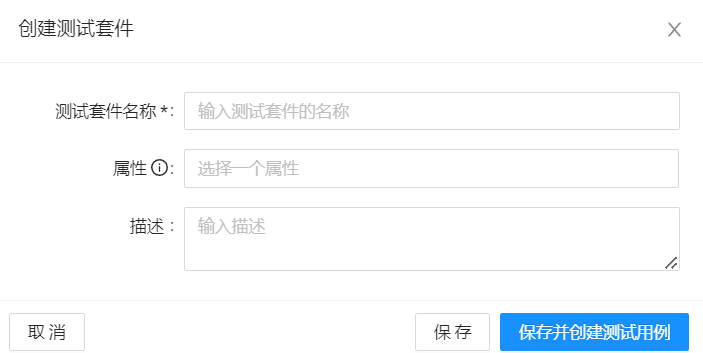
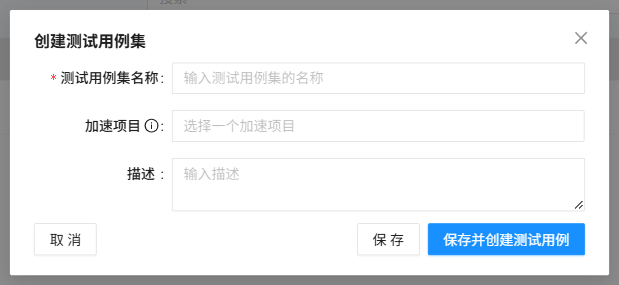
NGDOC-397 Translate Test Suites page; replace test suite screenshots; stop ignoring PNG files

diff --git a/zh/docs/portal/edge-configurations/working-with-test-suites.md b/zh/docs/portal/edge-configurations/working-with-test-suites.md
@@ -1,79 +1,79 @@
-# Working with Test Suites
+# 管理测试用例集
 
-CDN Pro provides a staging environment for you to [test your property configurations](</docs/portal/edge-configurations/testing-property.md>) without affecting production. Test suites provide the added convenience of allowing you to test properties deployed to both the staging and production environments.
+CDN Pro 提供了演练环境，供您在不影响生产环境的情况下[测试加速项目配置](</docs/portal/edge-configurations/testing-property.md>)。您可以使用测试用例集的功能，方便地测试部署到演练环境和生产环境的加速项目。
 
-Test suites are created and run from the Test Suites page. To display this page, click **Edge Configurations** > **Test Suites** in the left pane.
+您可以在“测试用例集”页面中创建和运行测试用例集。要显示该页面，请在左侧导航栏中点击**边缘配置** > **测试用例集**。
 
-The following figure shows the key elements on the page, and the table following the figure describes them.
+下图显示了页面上的关键元素，图后的表格对它们进行了说明。
 
 <p align=center><img src="/docs/resources/images/edge-configurations/test-suites-page.png" alt="test suite page" width="900"></p>
 
-| **Fields**   | **Description**                                                                                           |
+| **编号**   | **说明**                                                                                                   |
 | :----------: | --------------------------------------------------------------------------------------------------------- |
-| 1            | A search box for filtering test suites. You can filter test suites by ID, name, description, or property. To enter multiple search strings, separate each one with a carriage return. Advanced filtering capabilities allow you to search specific configurations. For more information, see [Filtering Properties](#filtering-properties).               |
-| 2            | The list of all test suites that are available to you.                                                    |
-| 3            | Drop-down lists to take actions on each test suite.                                                       |
-| 4            | The button to create and run test suites.                                                                 |
+| 1            | 用于筛选测试用例集的搜索框。您可以按 ID、名称、描述或加速项目筛选测试用例集。   |
+| 2            | 测试用例集的列表。                                                                                |
+| 3            | 用于对每个测试用例集执行操作的下拉列表。                                                                       |
+| 4            | 用于创建测试用例集的按钮。                                                                                 |
 
-## Creating Test Suites
-The following procedure describes how to create a test suite. After you create a test suite, you can run it as part of this procedure or save it for future use.
+## 创建测试用例集
+以下步骤介绍如何创建测试用例集。创建测试用例集后，您可以在此流程中运行它，也可以将其保存以备将来使用。
 
-1. In the left pane, click **Edge Configurations**, and then select **Test Suites**. 
-2. At the top right of the screen, click the **Create Test Suite** button.
-3. Complete the fields in the Test Suites page. Required fields are denoted by an asterisk (*).
+1. 在左侧导航栏中，点击**边缘配置**，然后选择**测试用例集**。
+2. 在屏幕右上角，点击**创建测试用例集**按钮。
+3. 在“创建测试用例集”对话框中填写字段。必填字段以星号（*）标示。
 
 <p align=center><img src="/docs/resources/images/edge-configurations/create-test-suite-dialog-box.png" alt="test suite dialog box" width="550"></p>
 
-| **Fields**      | **Description**                                       |
+| **字段**      | **说明**                                       |
 | --------------- | ----------------------------------------------------- |
-| Test Suite Name | Name of the test suite you want to create.            | 
-| Property        | Type the first few characters of a property deployed to staging or production, and then select one from the matching list of properties. To test on production, you must have an edge hostname and modify your DNS settings to direct traffic to the CDN Pro production platform.|
-| Description     | Description of the test suite.                        |
+| 测试用例集名称 | 您要创建的测试用例集的名称。            |
+| 加速项目    | 输入部署到演练环境或生产环境的加速项目的名称，然后从匹配的加速项目列表中选择一个。要在生产环境上测试，您必须先创建调度域名，并修改 DNS 设置，将流量指向 CDN Pro 生产平台。|
+| 描述     | 测试用例集的描述。                        |
 
-4. Click **Save** to save the test suite or **Save and Create Test Case** to create a test case and proceed to the next step.
-5. If you clicked **Save and Create Test Case**, complete the fields in the Create a test case page.
+4. 点击**保存**保存测试用例集，或点击**保存并创建测试用例**以创建测试用例并进入下一步。
+5. 如果您点击了**保存并创建测试用例**，请在“创建测试用例”页面中填写表单。
 
 <p align=center><img src="/docs/resources/images/edge-configurations/create-a-test-case.png" alt="test case" width="700"></p>
 
-| **Fields**      | **Description**                                                                                 |
+| **字段**      | **说明**                                                                                 |
 | --------------- | ----------------------------------------------------------------------------------------------- |
-| Property        | Read-only field that shows the name of the property associated with this test suite.            | 
-| Test Case Name  | Name of the test case you are creating.                                                         |
-| Description     | Description of the test case.                                                                  |
-| URL             | Complete URL containing a hostname defined in a deployed property.                              | 
-| Request Headers | Request headers to pass.                                                                        |
-| Cookies         | Cookies to pass.                                                                                |
-| TLS Version     | TLS version to use for the request.                                                             | 
-| HTTP/2          | Select whether to enable or disable HTTP/2 for the request.                                     |
-| Expected Result | Select one or more HTTP response status codes.                                                  |
+| 加速项目    | 只读字段，显示与此测试用例集关联的加速项目名称。            |
+| 测试用例名称  | 您正在创建的测试用例的名称。                                                         |
+| 描述     | 测试用例的描述。                                                                  |
+| URL             | 包含已部署加速项目中所定义的加速域名的完整 URL。                              |
+| 请求头 | 要传递的请求头。                                                                        |
+| Cookies         | 要传递的 Cookies。                                                                                |
+| TLS 版本     | 请求使用的 TLS 版本。                                                             |
+| HTTP/2          | 选择为请求启用还是禁用 HTTP/2。                                     |
+| 预期结果 | 选择一个或多个 HTTP 响应状态码。                                                  |
 
-6. Click **Save and Create Another Test Case** to save the test case and create another one or **Save and Run** to save the test case you just created and run it.
-7. If you clicked **Save and Run**, select a target environment (staging or production) to test when prompted, and then click **Run**. The Test Report page shows the results.
+6. 点击**保存并继续创建**以保存该测试用例并创建另一个，或点击**保存并运行**以保存刚创建的测试用例并运行它。
+7. 如果您点击了**保存并运行**，请在出现提示时选择要测试的目标环境（演练或生产），然后点击**运行**。“测试报告”页面会显示结果。
 
-## Editing Test Suites and Test Cases
+## 编辑测试用例集和测试用例
 
-1. In the left pane, click **Edge Configurations**, and then select **Test Suites**.
+1. 在左侧导航栏中，点击**边缘配置**，然后选择**测试用例集**。
 
-2. On the Test Suites page, click the ID of the test suite you want to edit. 
-   <br><U>OR </u></br>
-  In the **Actions** column, click the vertical ellipsis for the test suite you want to edit, and then select **Edit**.
+2. 在“测试用例集”页面，点击您要编辑的测试用例集的 ID。
+   <br><U>或 </u></br>
+  在**操作**列中，点击您要编辑的测试用例集的垂直省略号，然后选择**编辑**。
 
-3. To change the name of the test suite before editing it, click the current name, enter the new name, and click **Save**.
-4. Click the ID of the test case you want to edit.
-5. Make your changes in the Test Case form. Required fields are denoted by an asterisk (\*).
-6. Click **Save**.
+3. 要更改测试用例集的名称，请点击当前名称，输入新名称，然后点击对勾保存。
+4. 点击您要编辑的测试用例的 ID。
+5. 在“测试用例”表单中进行更改。必填字段以星号（\*）标示。
+6. 点击**保存**。
 
-## Running Test Cases within a Test Suite
+## 在测试用例集中运行测试用例
 
-1. In the left pane, click **Edge Configurations**, and then select **Test Suites**.
-2. On the Test Suites page, check a test suite, click the three dots next to the **Create Test Suite** button, and select **Run Selected Test Suites**. 
-   <br><U>OR </u></br>
-  In the **Actions** column, click the vertical ellipsis for a test suite, and then select **Run**.
-3. When prompted, select a target environment (staging or production) to test.
-4. Click **Run**. The Test Report page shows the results.
+1. 在左侧导航栏中，点击**边缘配置**，然后选择**测试用例集**。
+2. 在“测试用例集”页面，勾选一个测试用例集，点击**创建测试用例集**按钮旁边的三个点，然后选择**运行选定的测试用例集**。
+   <br><U>或 </u></br>
+  在**操作**列中，点击测试用例集的垂直省略号，然后选择**运行**。
+3. 出现提示时，选择要测试的目标环境（演练或生产）。
+4. 点击**运行**。“测试报告”页面会显示结果。
 
-## Deleting a Test Suite
+## 删除测试用例集
 
-1. In the left pane, click **Edge Configurations**, and then select **Test Suites**.
-2. In the **Actions** column on the Test Suites page, click the vertical ellipsis of the test suite you want to delete, and then select **Delete**.
-3. When prompted to confirm the deletion, click **Yes, delete** to delete the test suite.
+1. 在左侧导航栏中，点击**边缘配置**，然后选择**测试用例集**。
+2. 在“测试用例集”页面的**操作**列中，点击您要删除的测试用例集的垂直省略号，然后选择**删除**。
+3. 出现“确认删除”提示时，点击**是的，删除**以删除测试用例集。

diff --git a/en/docs/portal/edge-configurations/working-with-test-suites.md b/en/docs/portal/edge-configurations/working-with-test-suites.md
@@ -10,7 +10,7 @@ The following figure shows the key elements on the page, and the table following
 
 | **Fields**   | **Description**                                                                                           |
 | :----------: | --------------------------------------------------------------------------------------------------------- |
-| 1            | A search box for filtering test suites. You can filter test suites by ID, name, description, or property. To enter multiple search strings, separate each one with a carriage return. Advanced filtering capabilities allow you to search specific configurations. For more information, see [Filtering Properties](#filtering-properties).               |
+| 1            | A search box for filtering test suites. You can filter test suites by ID, name, description, or property.               |
 | 2            | The list of all test suites that are available to you.                                                    |
 | 3            | Drop-down lists to take actions on each test suite.                                                       |
 | 4            | The button to create and run test suites.                                                                 |
